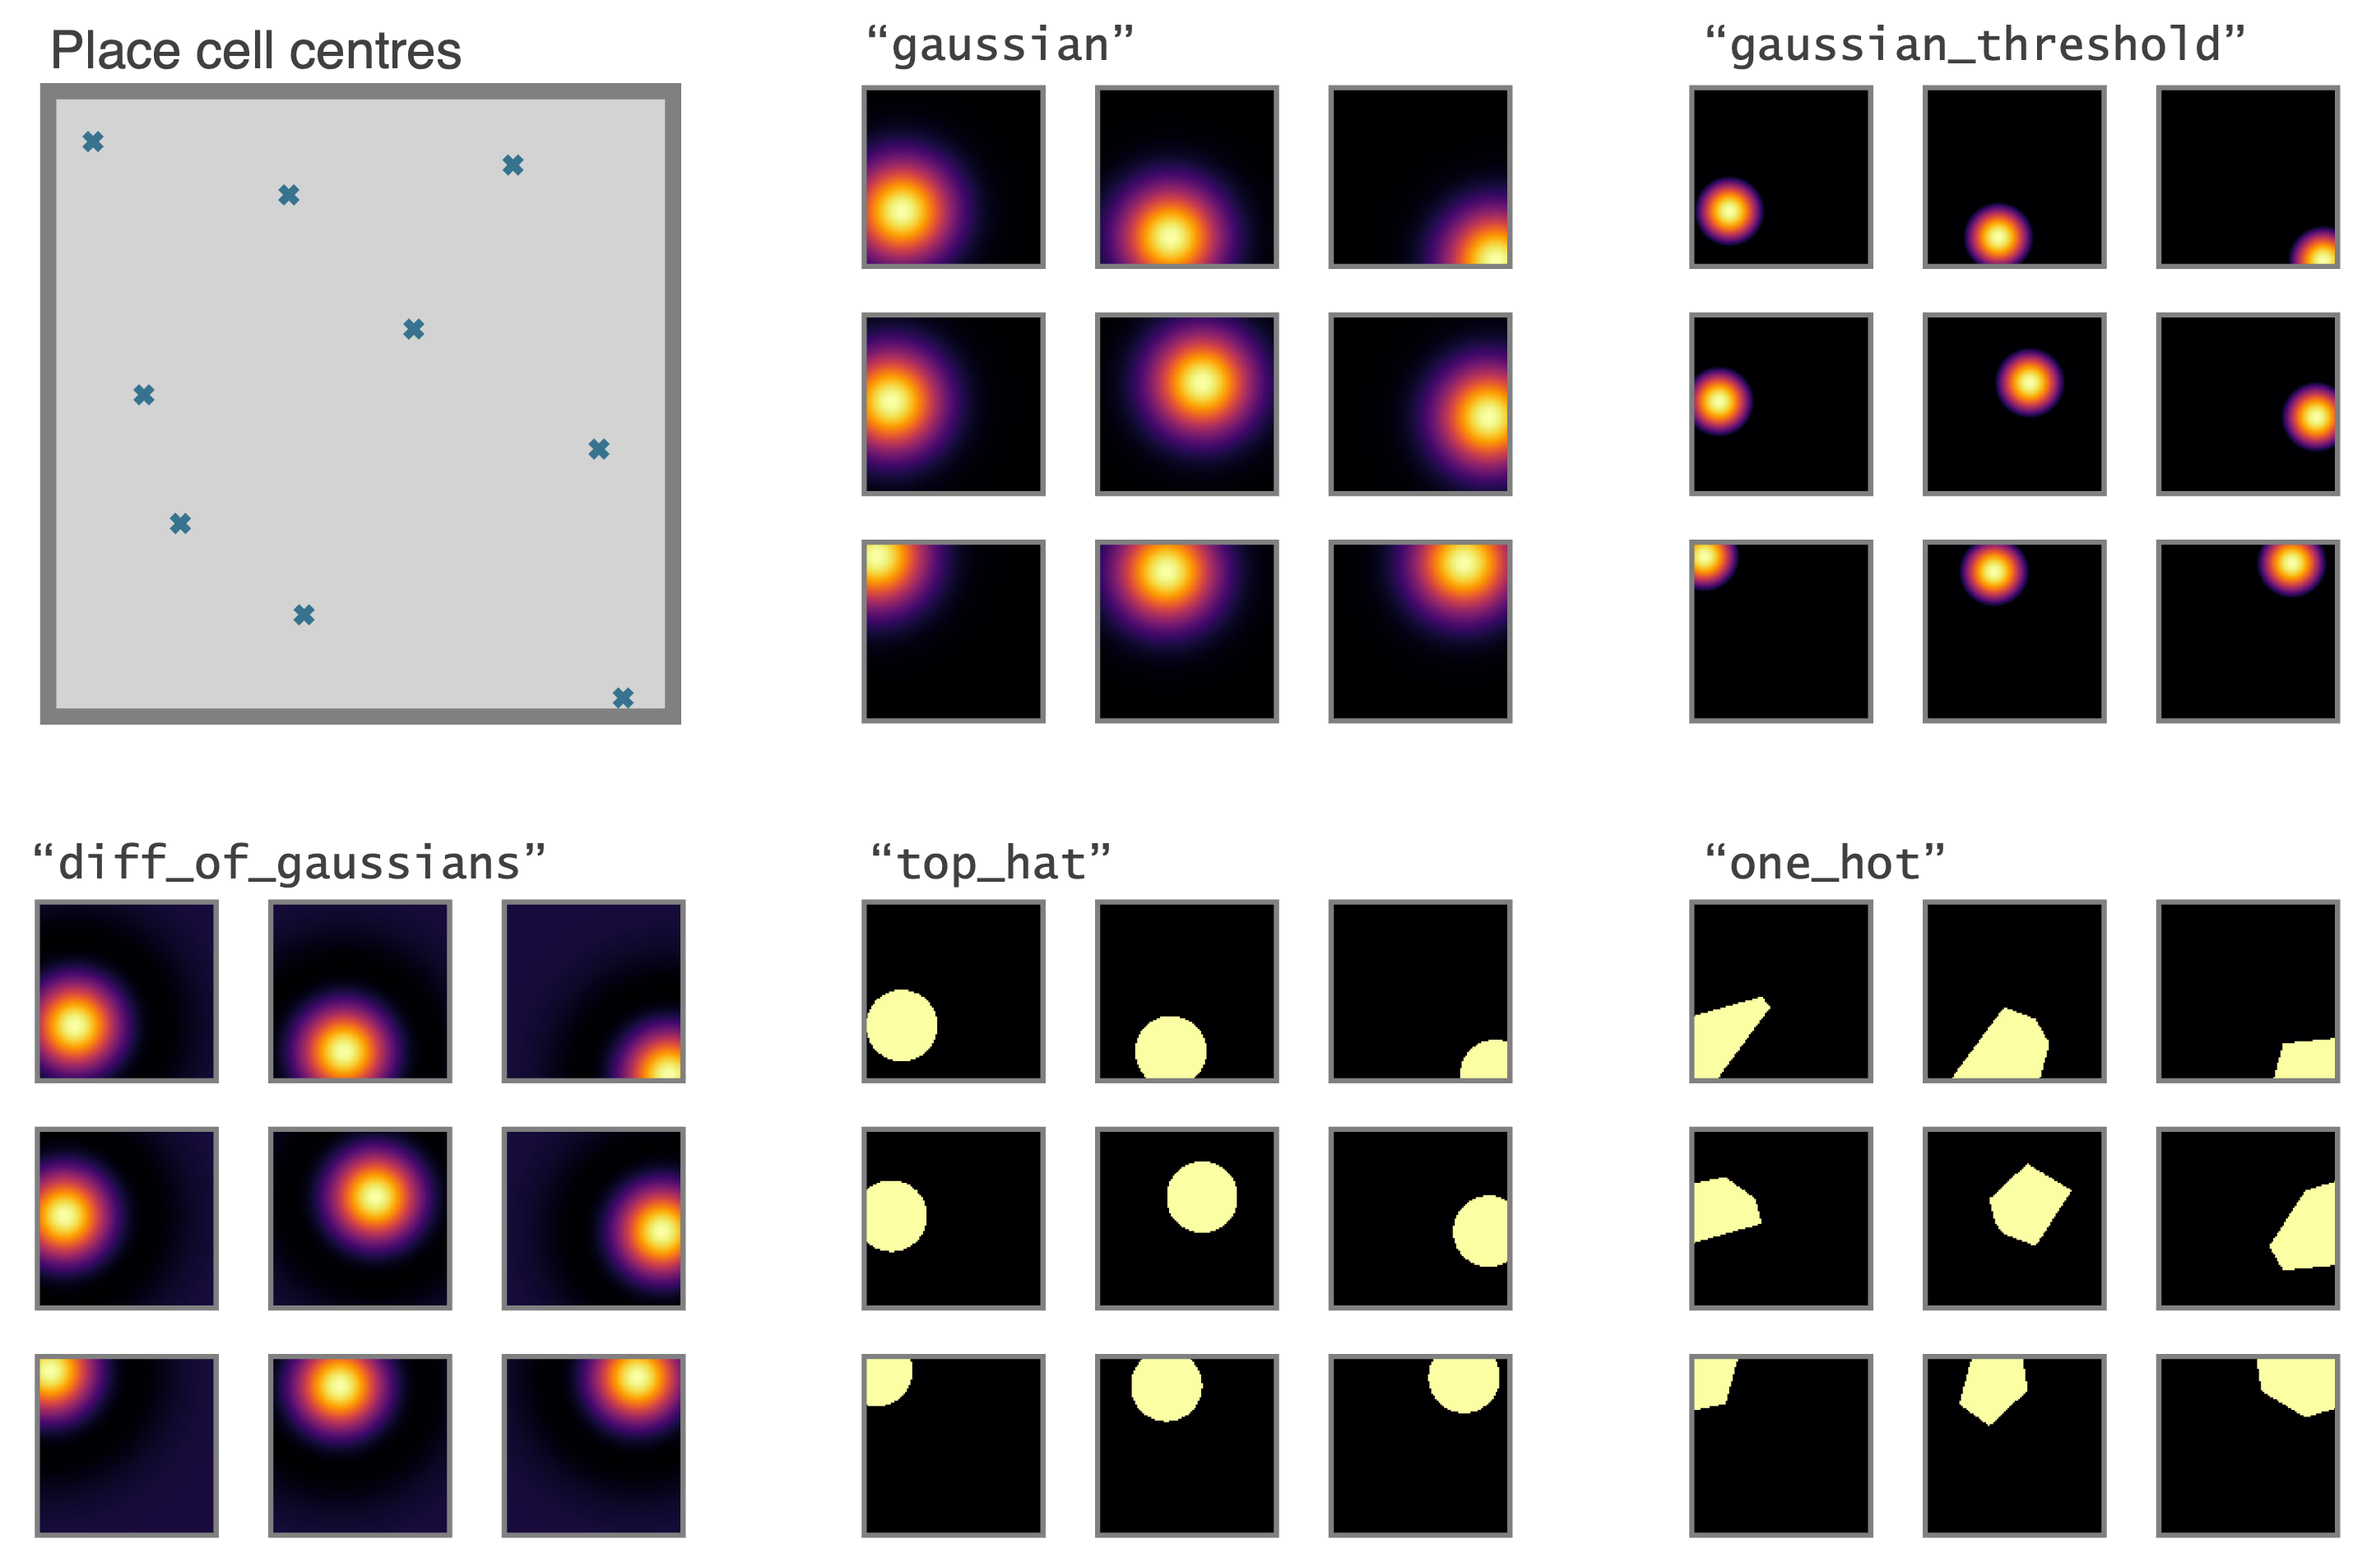
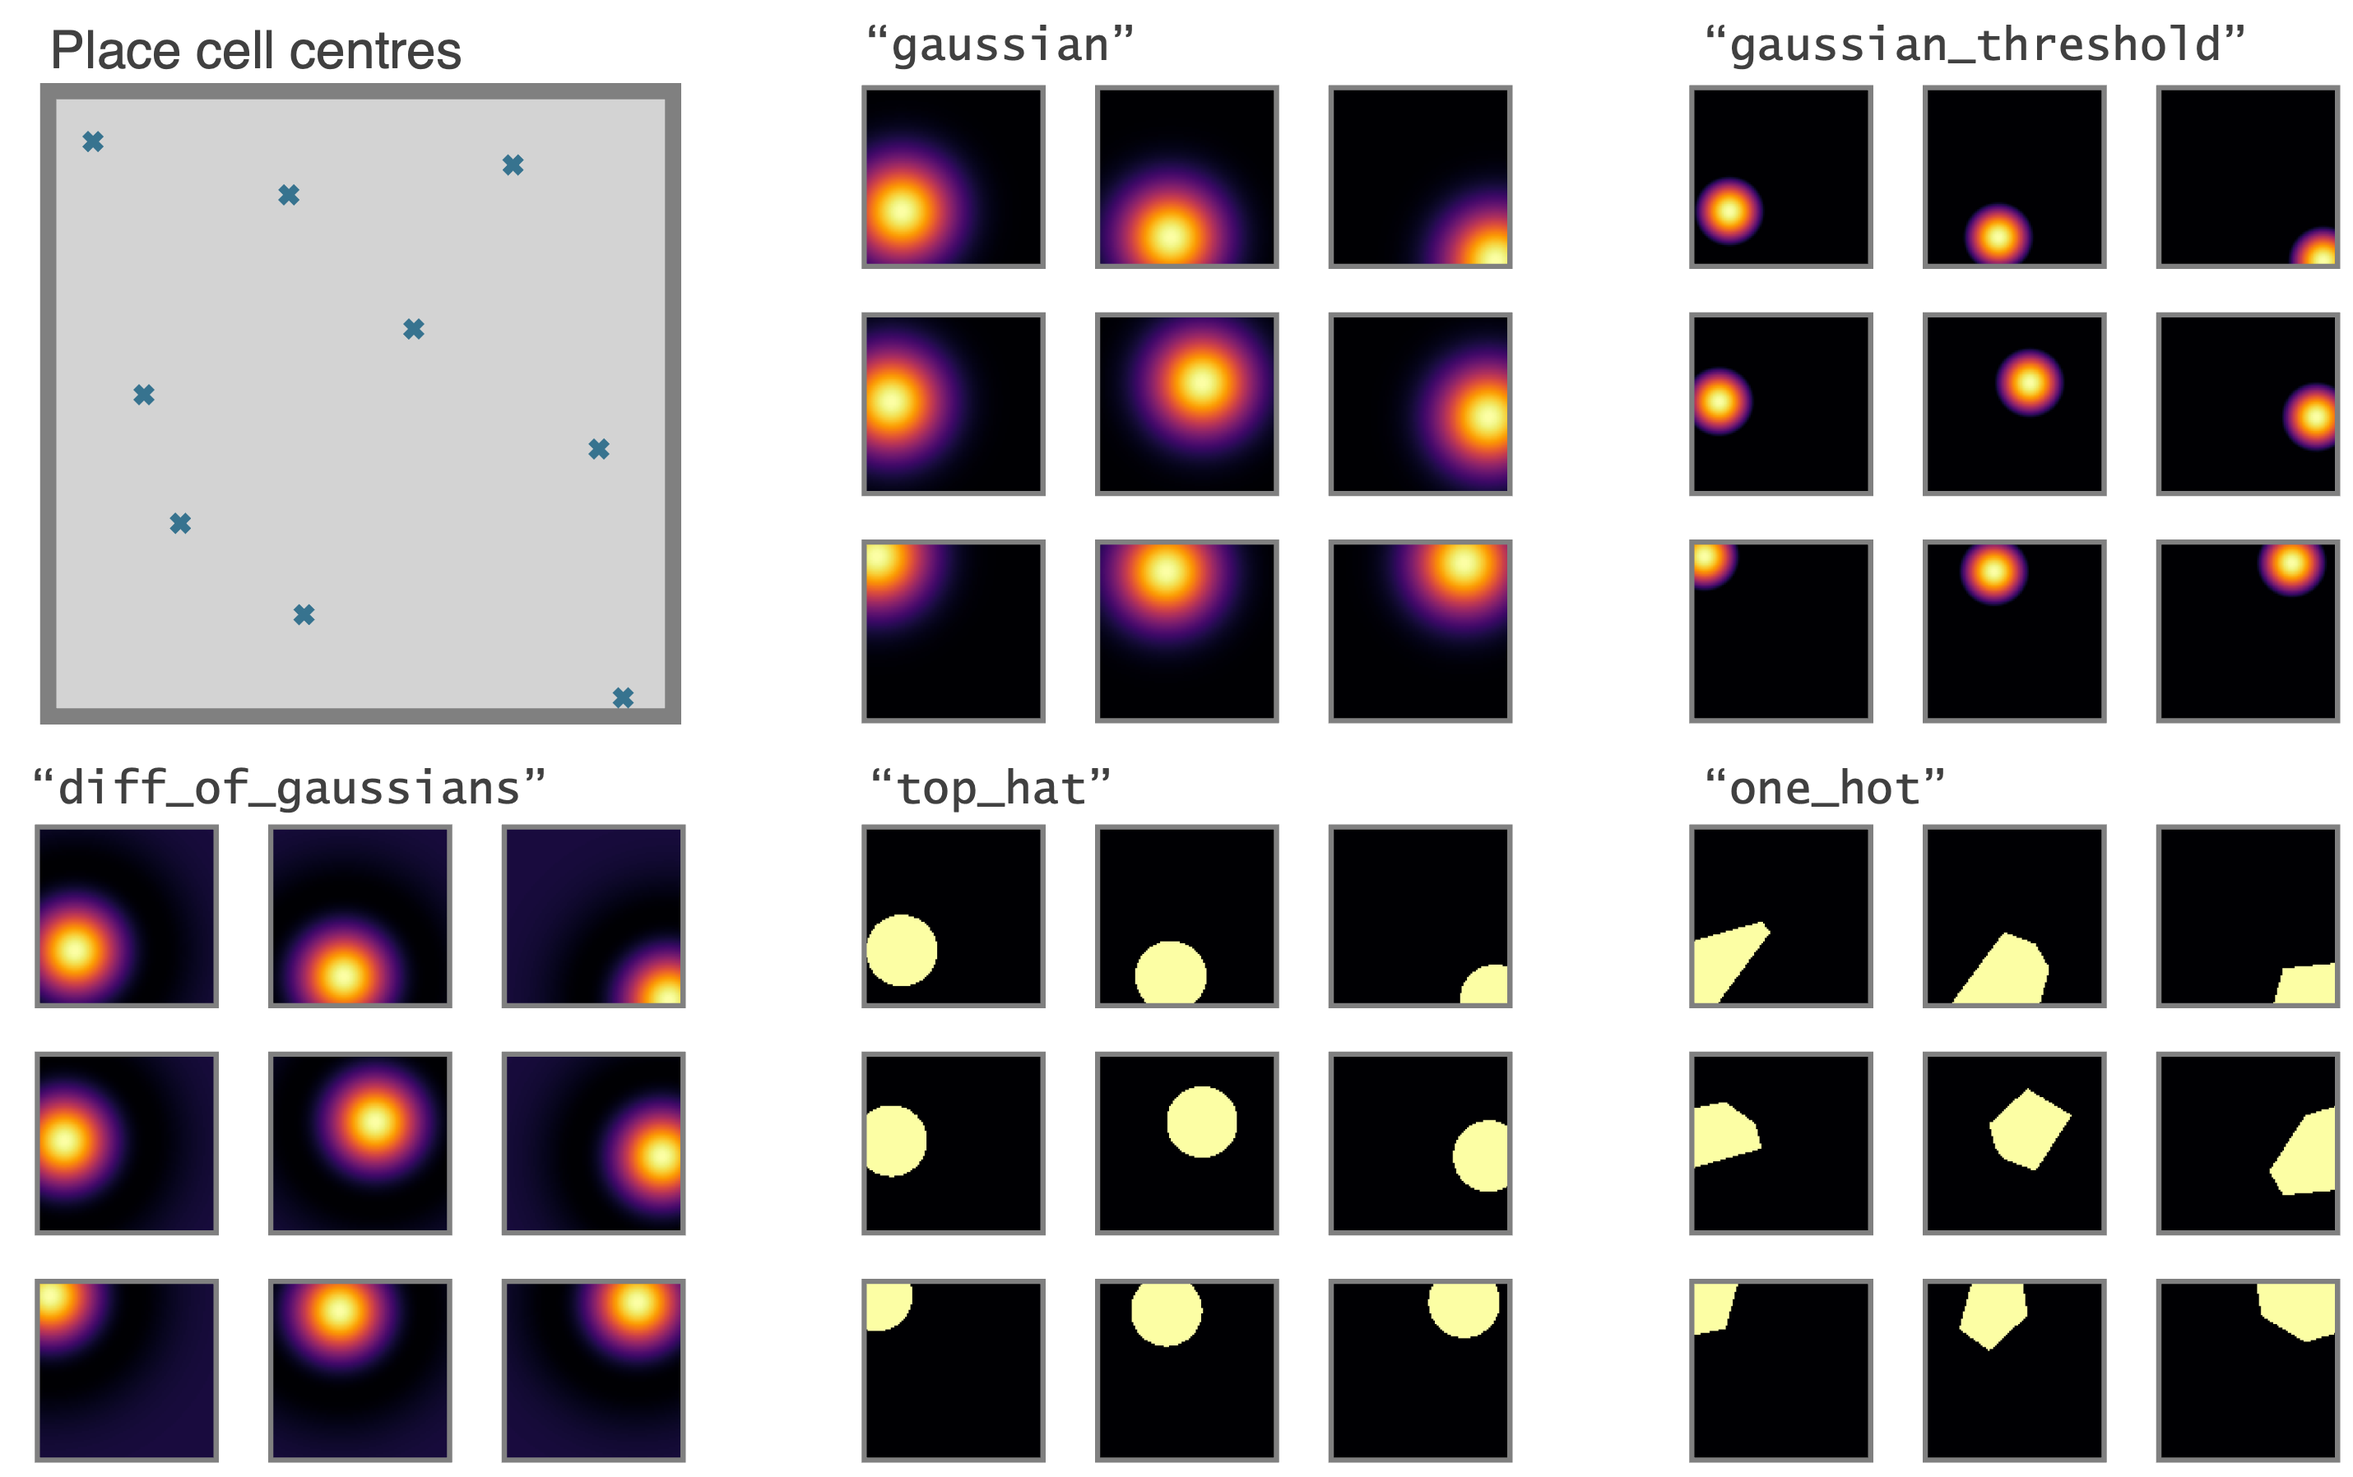
place cell model fig

diff --git a/README.md b/README.md
@@ -176,7 +176,7 @@ Place cells come in multiple types (given by `params['description']`), or it wou
 
 This last place cell type, `"one_hot"` is particularly useful as it essentially rediscretises space and tabularises the state space (gridworld again). This can be used to  contrast and compare learning algorithms acting over continuous vs discrete state spaces. This figure compares the 5 place cell models for population of 9 place cells (top left shows centres of place cells, and in all cases the `"widths"` parameters is set to  0.2 m, or irrelevant in the case of `"one_hot"`s)
 
-<img src="./images/placecellmodels.png" width=900>
+<img src="./images/placecellmodels.png" width=800>
 
 
 #### Geometry of `PlaceCells` 
